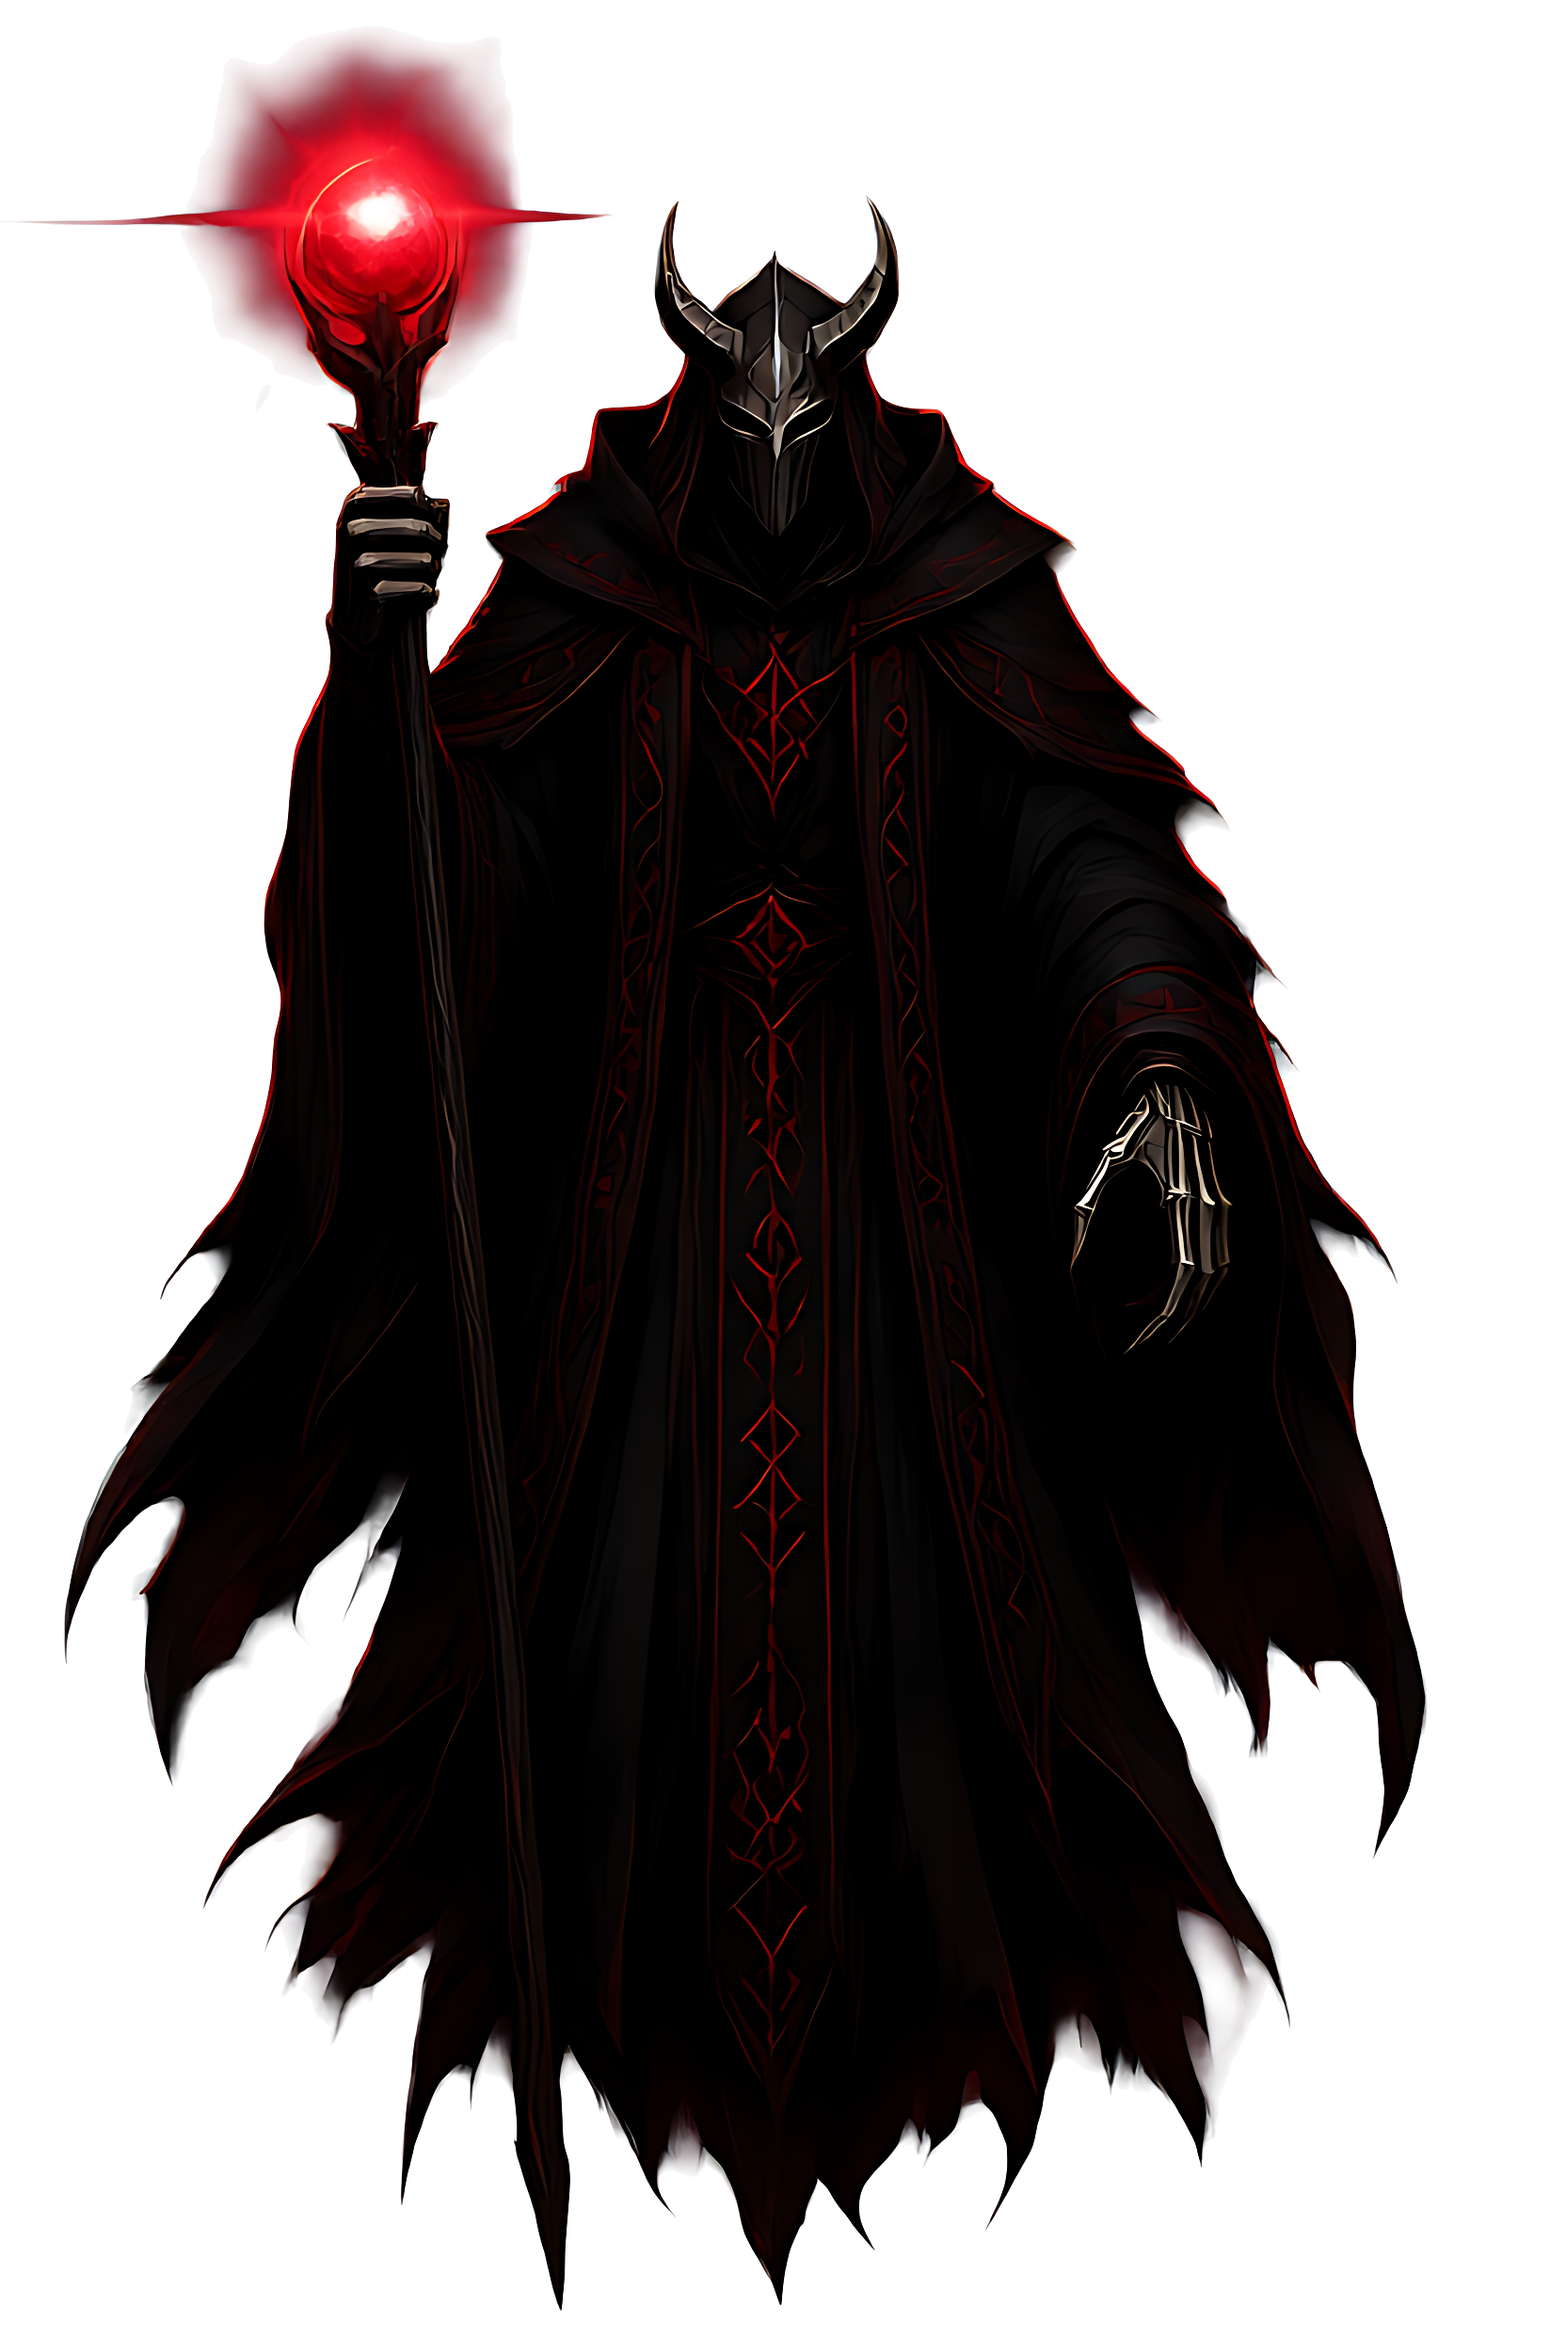
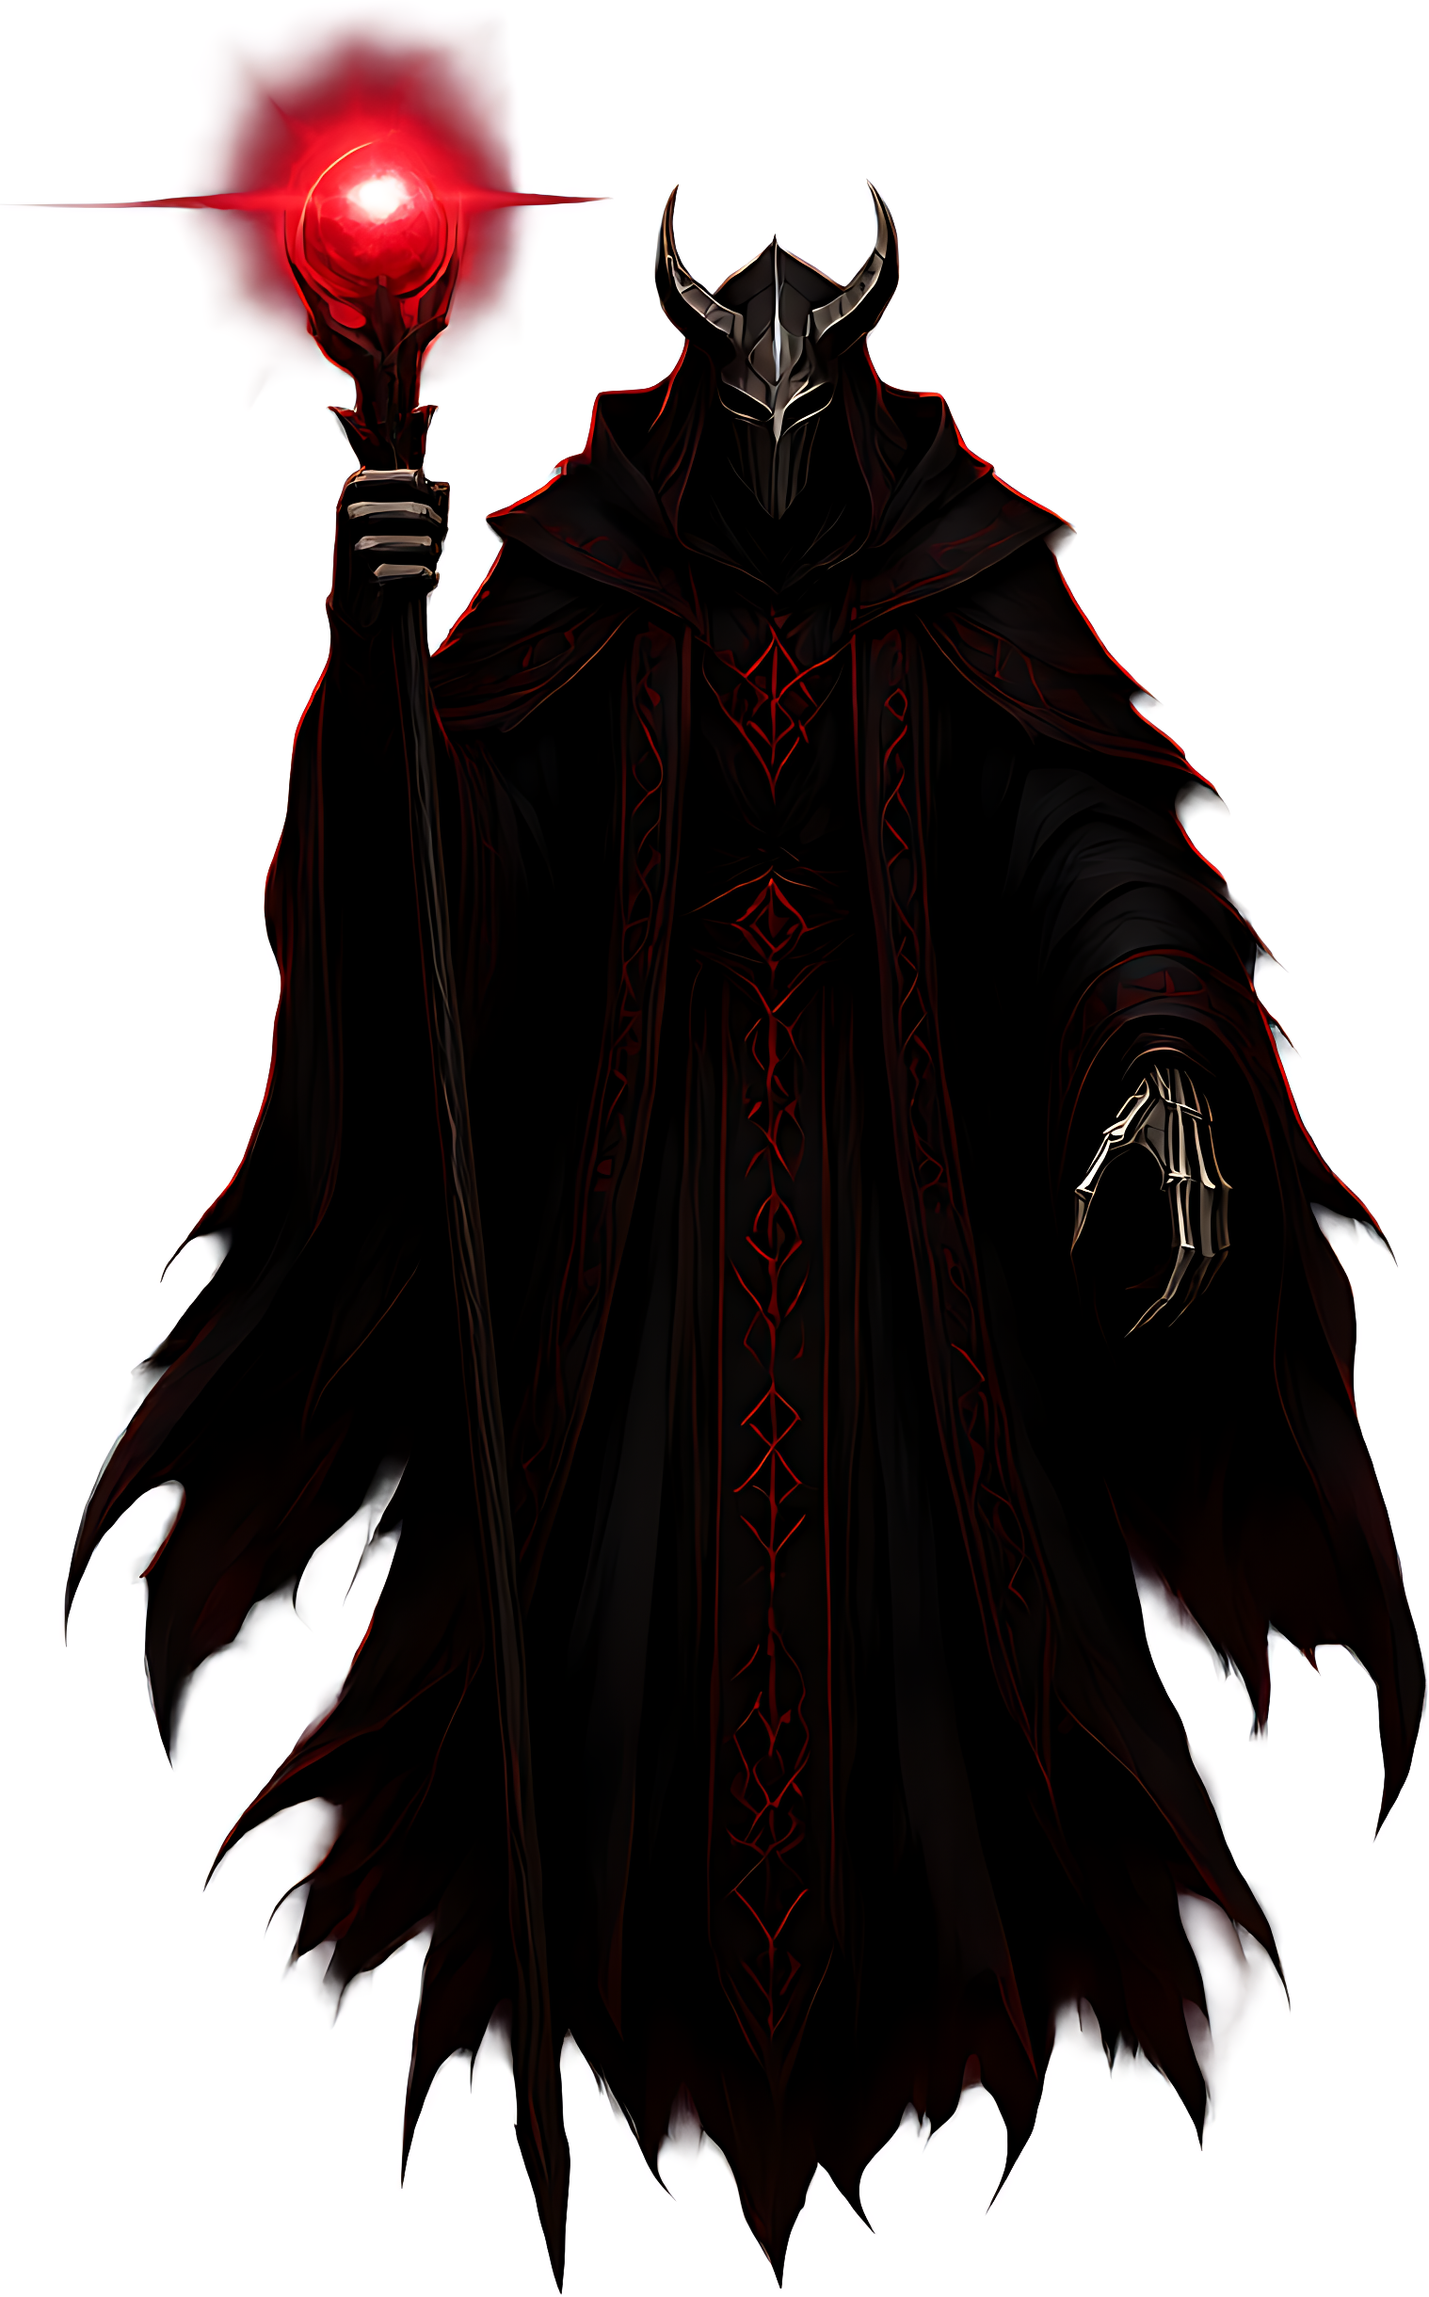
替换黑巫师技能透明素材并调整显示比例

diff --git a/game.js b/game.js
@@ -199,6 +199,8 @@
   const BLACK_MIST_BULLET_SPEED = 4.2;
   const BLACK_MIST_BULLET_BURST_SPEED = 4.7;
   const BLACK_MIST_BULLET_POOL_SIZE = 160;
+  const BLACK_WIZARD_RENDER_SCALE = 2.6;
+  const BLACK_WIZARD_SKILL_RENDER_SCALE = 2.45;
   const BLACK_WIZARD_ENRAGE_RATIO = 0.5;
   const BLACK_WIZARD_CURSE_FIELD_INTERVAL = 8;
   const BLACK_WIZARD_CURSE_FIELD_SIZE = 10;
@@ -5029,7 +5031,7 @@
           : (isAbyssLord
             ? 2.2
             : (isBlackWizard
-              ? 2.45
+              ? BLACK_WIZARD_RENDER_SCALE
               : (isBlackBoss ? 2.05 : (isPharaoh ? 1.425 : 2))))));
     const bulletHitRadius = isRootcoil
       ? 4.6
@@ -8996,8 +8998,10 @@
     b.z = cellZ(BOSS_CELL.j);
     bossMesh.position.set(b.x, 0, b.z);
     bossMesh.rotation.z = Math.sin(state.time * 1.9) * 0.02;
-    bossMesh.scale.setScalar((b.renderScale || 2.45) *
-      (1 + Math.sin(state.time * 2.5) * 0.02));
+    const displayScale = b.blackWizardPose === 'idle'
+      ? (b.renderScale || BLACK_WIZARD_RENDER_SCALE)
+      : BLACK_WIZARD_SKILL_RENDER_SCALE;
+    bossMesh.scale.setScalar(displayScale * (1 + Math.sin(state.time * 2.5) * 0.02));
     updateBlackWizardPose(b, dt);
     updateBlackWizardCurseState(b, dt);
     updateBlackWizardCurseFields(b, dt);
